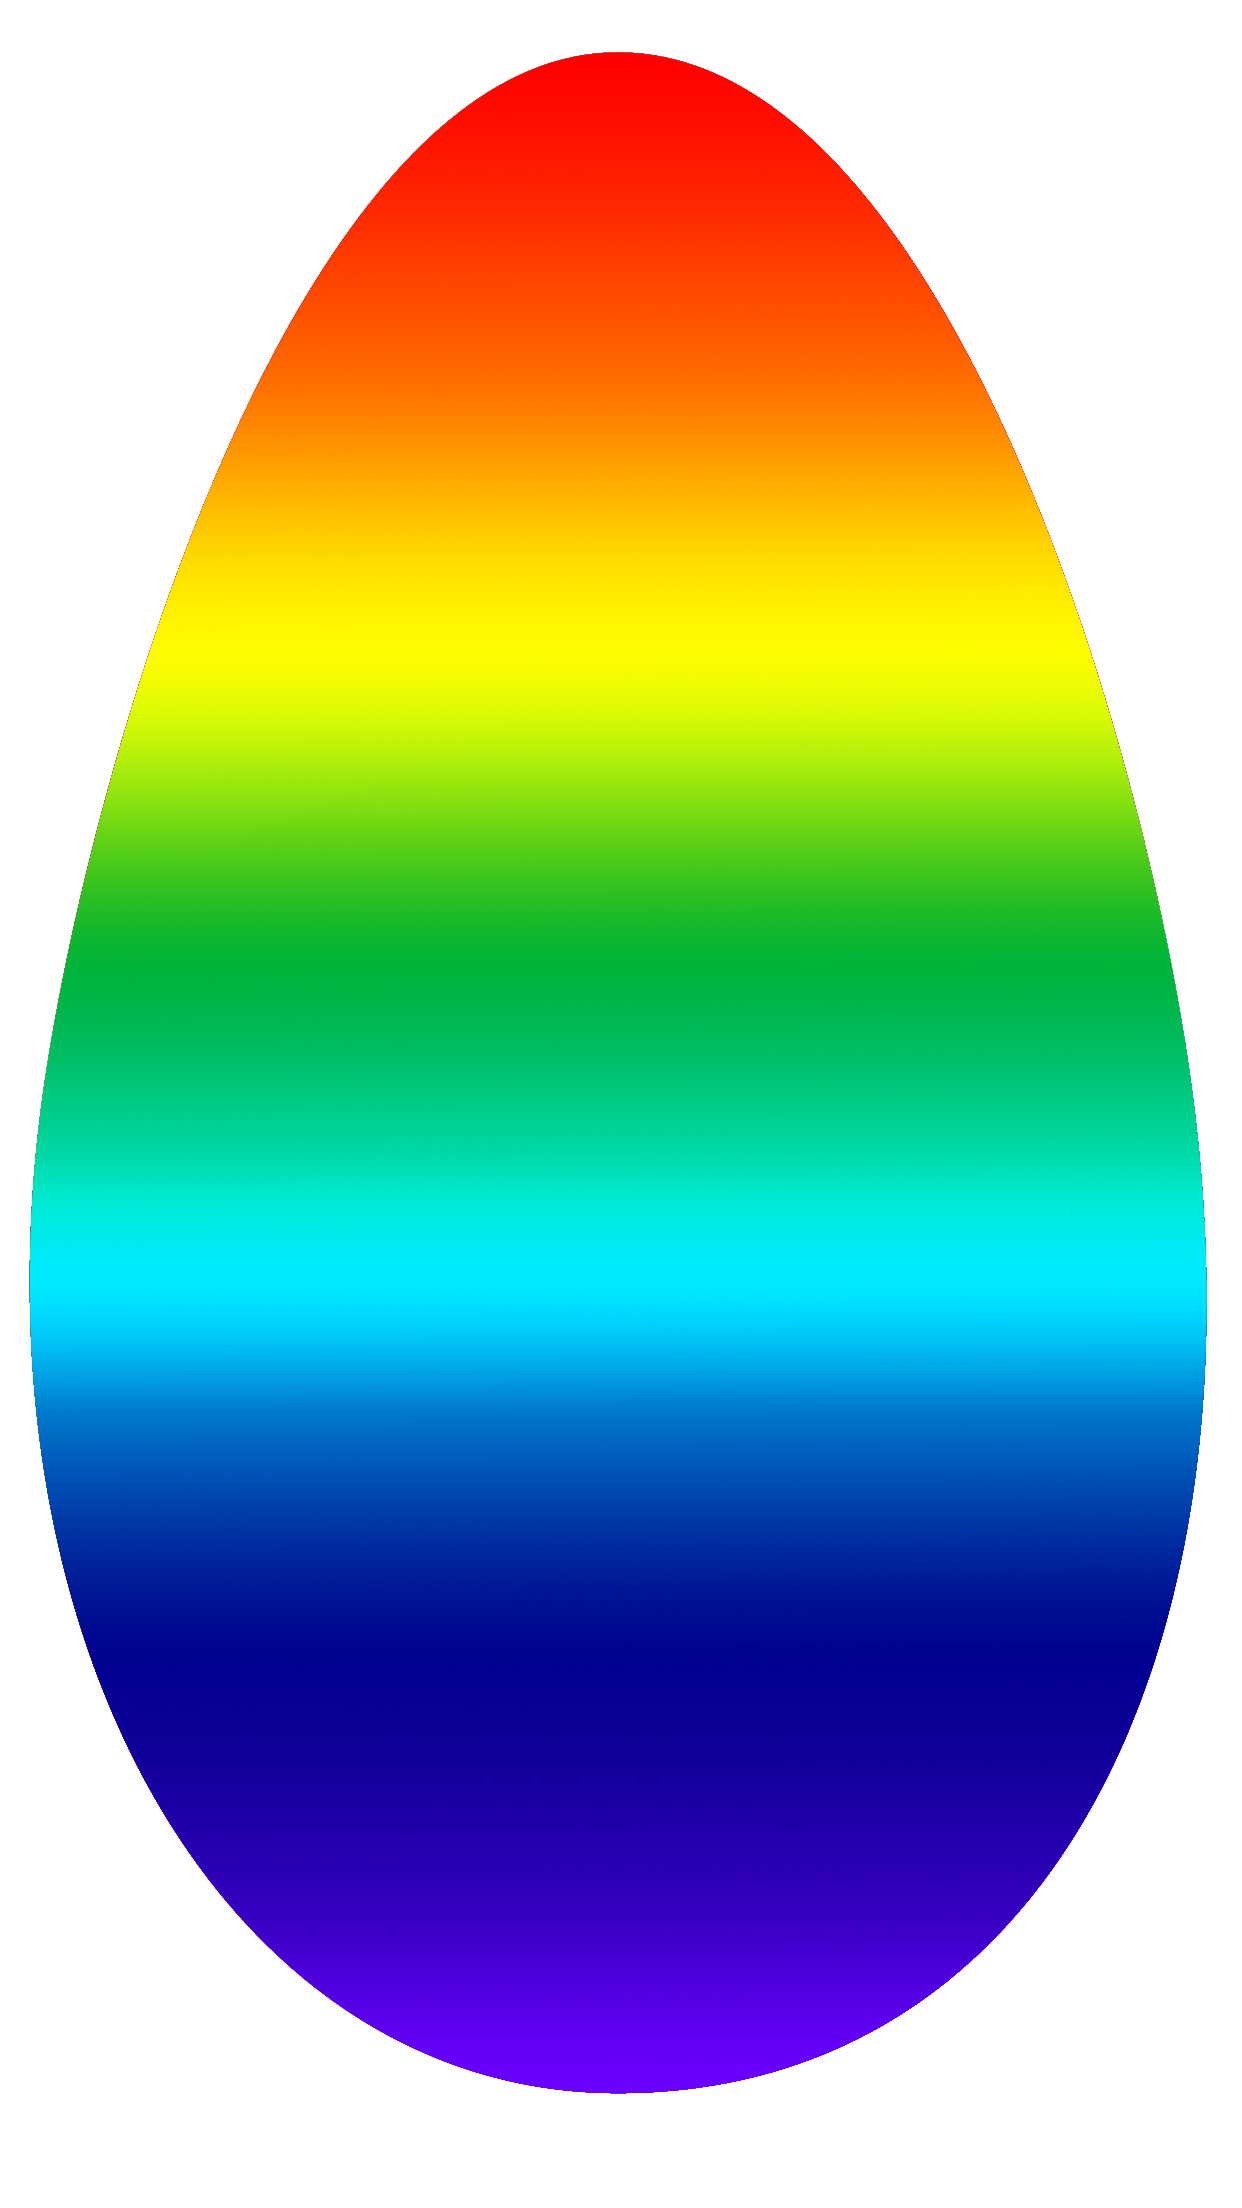
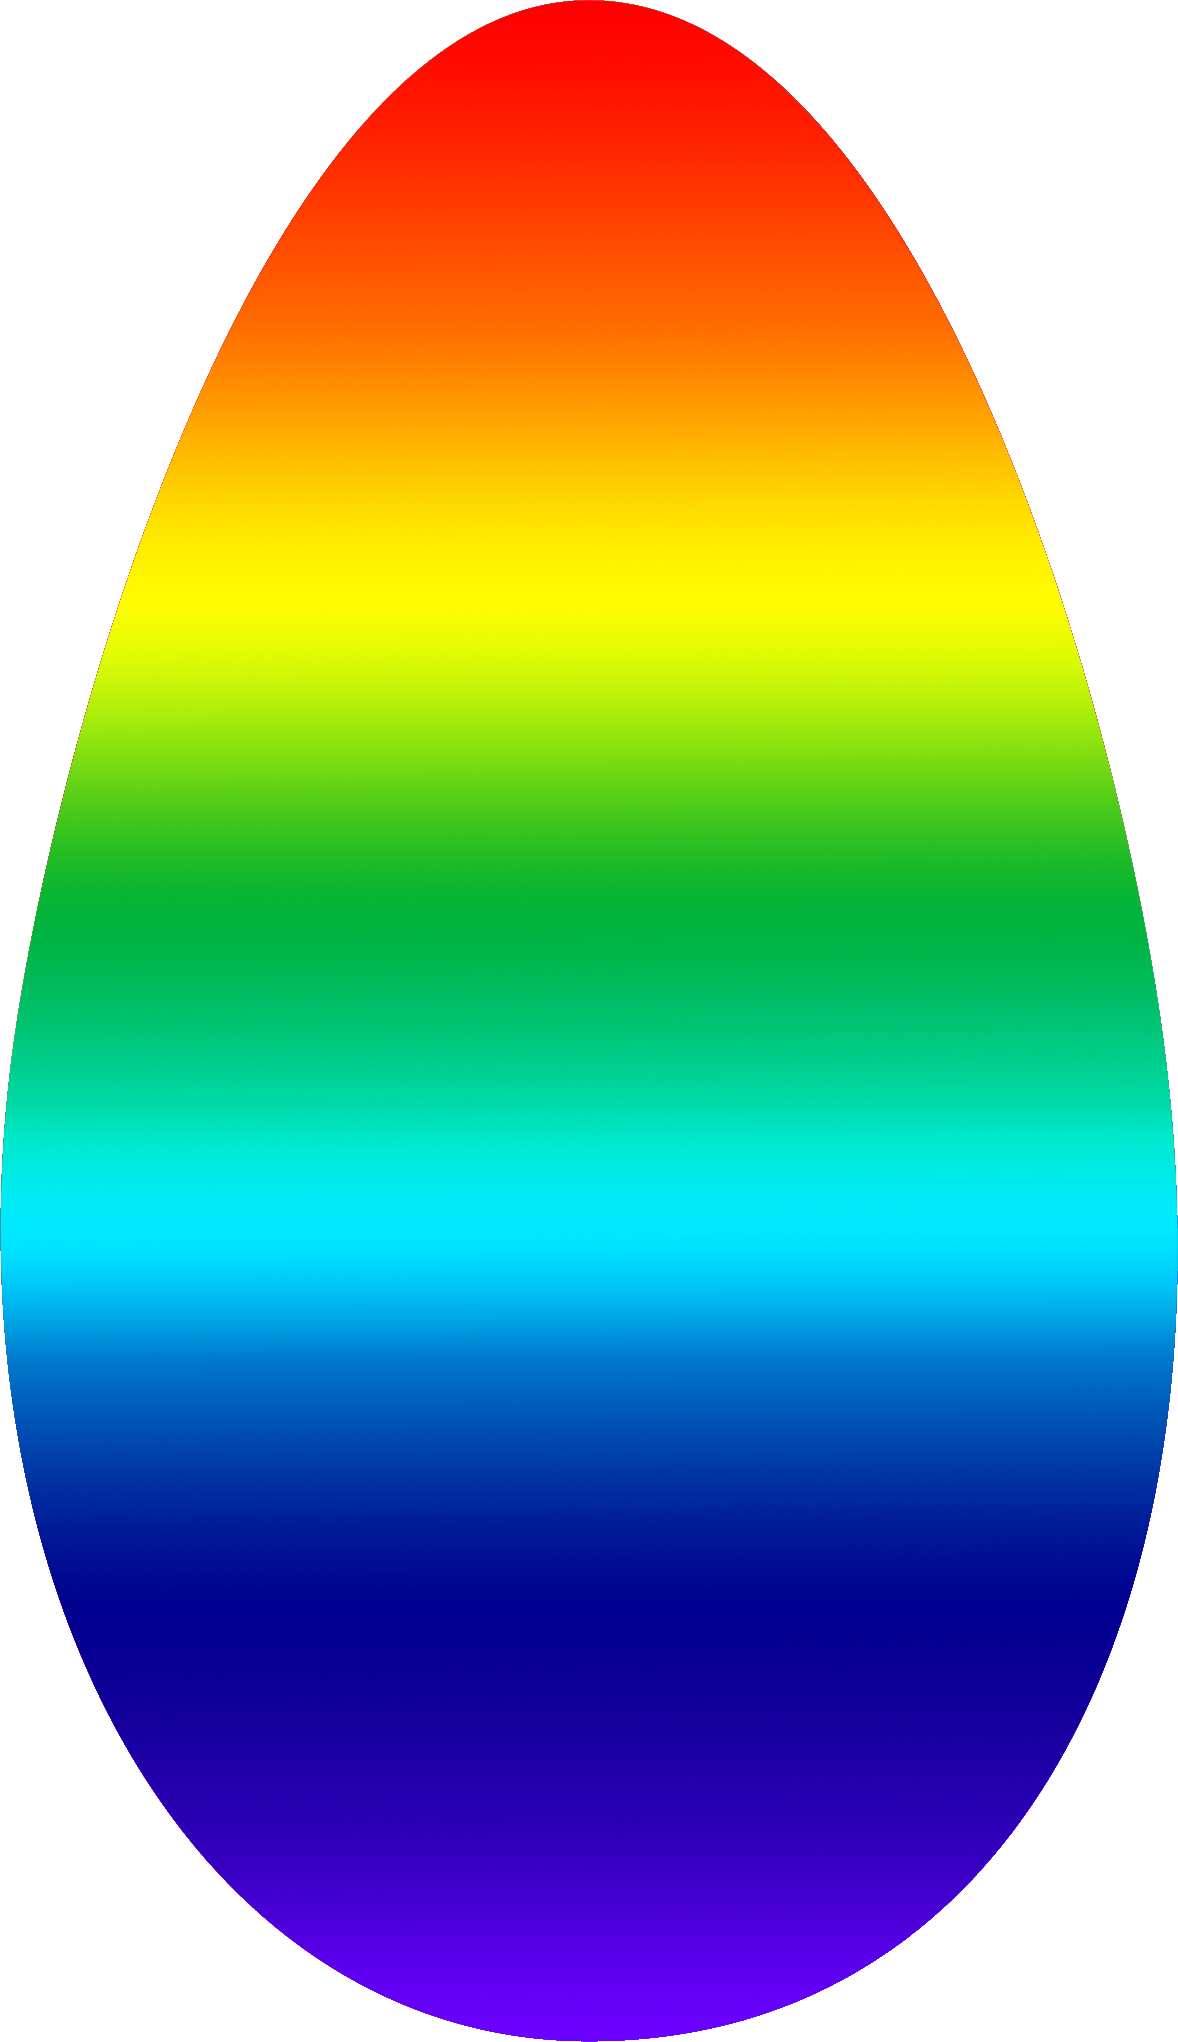
new formatting for progress bar and new image

diff --git a/WebsitePrototype/profile.html b/WebsitePrototype/profile.html
@@ -80,6 +80,7 @@
                 <section>
                     <h1 class="profileH1">Egg Collection Progress</h1>
                     <div class="flex">
+                        <img id="greyProgressEgg" src="images/progressEggPhotoshopGrey.png" />
                         <img id="progressEgg" src="images/progressEggPhotoshop.png" />
                         <h1 id="eggProgressTxt">0%</h1>
                     </div>

diff --git a/WebsitePrototype/style.css b/WebsitePrototype/style.css
@@ -65,6 +65,15 @@
     flex: 0 0;
     width: 200px;
     height: 300px;
+    clip: rect(295px, 200px, 300px, 0px)
+}
+
+#greyProgressEgg {
+    position: absolute;
+    margin-top: -5px;
+    flex: 0 0;
+    width: 210px;
+    height: 310px;
 }
 
 #eggProgressTxt {
